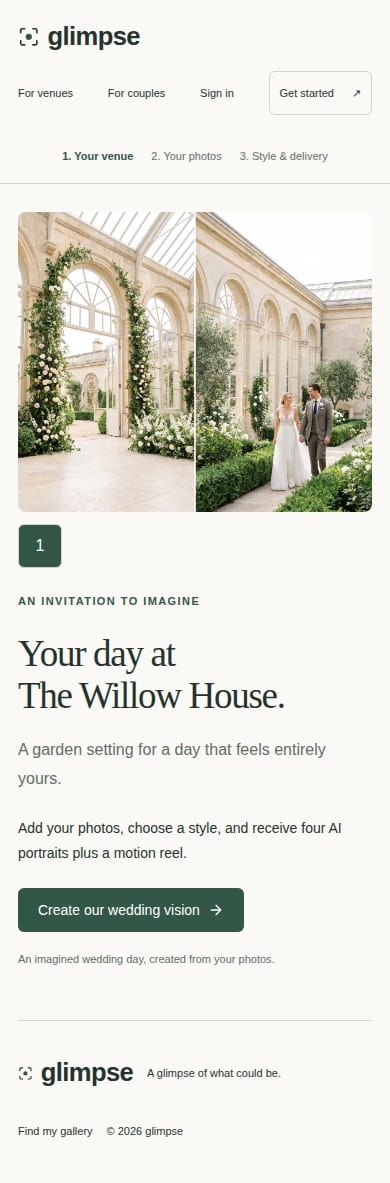
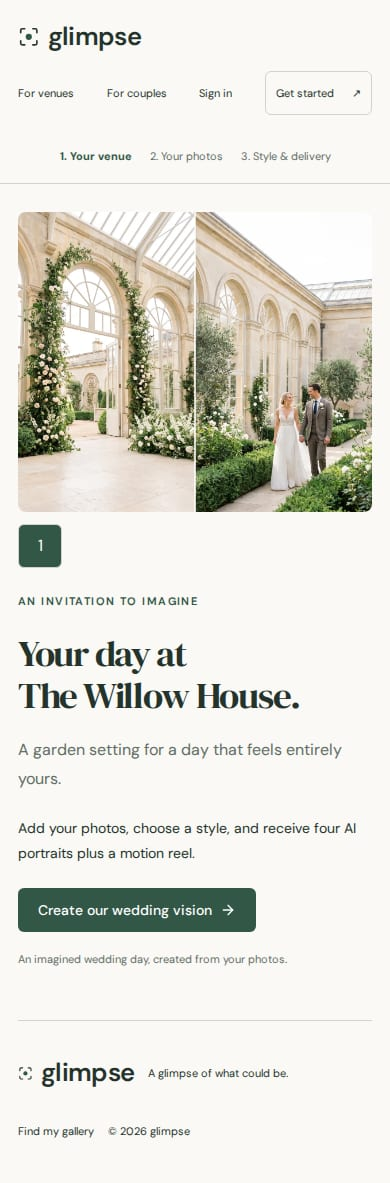
qa: load web fonts behind the TLS-inspecting proxy in headless renders; retake before shots
Claude-Session: https://claude.ai/code/session_01PtuXADma6S36rhr5WUnuBF

diff --git a/lib/brand/scripts/build-og.ts b/lib/brand/scripts/build-og.ts
@@ -46,9 +46,10 @@ writeFileSync(htmlPath, html);
 
 const browser = await chromium.launch();
 try {
-  const page = await browser.newPage({ viewport: { width: 1200, height: 630 }, deviceScaleFactor: 1 });
+  // ignoreHTTPSErrors: lets the Google Fonts stylesheet load behind TLS-inspecting proxies.
+  const page = await browser.newPage({ viewport: { width: 1200, height: 630 }, deviceScaleFactor: 1, ignoreHTTPSErrors: true });
   await page.goto(`file://${htmlPath}`, { waitUntil: "networkidle" });
-  await page.evaluate(() => document.fonts.ready);
+  await page.evaluate(() => Promise.all([document.fonts.load("600 92px Outfit"), document.fonts.load("400 30px Figtree"), document.fonts.ready]));
   const out = path.join(assetDir, "og-image.png");
   await page.screenshot({ path: out, type: "png" });
   copyFileSync(out, path.join(publicDir, "og-image.png"));
